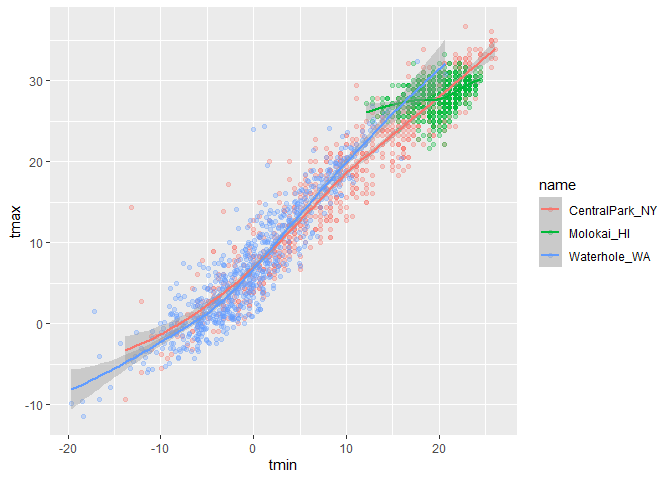
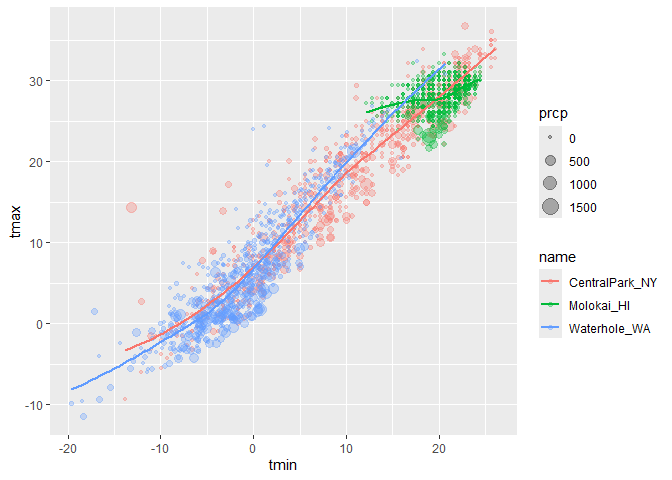
learning assessment

diff --git a/viz_1.md b/viz_1.md
@@ -99,8 +99,28 @@ weather_df |>
 ``` r
 weather_df |>
   ggplot(aes(x = tmin, y = tmax, color = name)) +
-  geom_point(alpha = 0.3) +
-  geom_smooth()
+  geom_point(aes(color = name, size = prcp), alpha = 0.3) +
+  geom_smooth(se = FALSE)
+```
+
+    ## `geom_smooth()` using method = 'loess' and formula = 'y ~ x'
+
+    ## Warning: Removed 17 rows containing non-finite outside the scale range
+    ## (`stat_smooth()`).
+
+    ## Warning: Removed 19 rows containing missing values or values outside the scale range
+    ## (`geom_point()`).
+
+![](viz_1_files/figure-gfm/unnamed-chunk-7-1.png)<!-- -->
+
+Use faceting real quick
+
+``` r
+weather_df |>
+  ggplot(aes(x = tmin, y = tmax, color = name)) +
+  geom_point(aes(color = name), alpha = 0.3, size = 0.8) +
+  geom_smooth(se = FALSE) +
+  facet_grid(. ~ name)
 ```
 
     ## `geom_smooth()` using method = 'loess' and formula = 'y ~ x'
@@ -111,4 +131,59 @@ weather_df |>
     ## Warning: Removed 17 rows containing missing values or values outside the scale range
     ## (`geom_point()`).
 
-![](viz_1_files/figure-gfm/unnamed-chunk-7-1.png)<!-- -->
+![](viz_1_files/figure-gfm/unnamed-chunk-8-1.png)<!-- -->
+
+``` r
+weather_df |>
+  ggplot(aes(x = tmin, y = tmax, color = name)) +
+  geom_point(aes(color = name), alpha = 0.3, size = 0.8) +
+  geom_smooth(se = FALSE) +
+  facet_grid(name ~ .)
+```
+
+    ## `geom_smooth()` using method = 'loess' and formula = 'y ~ x'
+
+    ## Warning: Removed 17 rows containing non-finite outside the scale range
+    ## (`stat_smooth()`).
+    ## Removed 17 rows containing missing values or values outside the scale range
+    ## (`geom_point()`).
+
+![](viz_1_files/figure-gfm/unnamed-chunk-8-2.png)<!-- -->
+
+Let’s make a somewhat more interesting scatterplot
+
+``` r
+weather_df |>
+  ggplot(aes(x = tmin, y = tmax, color = name, shape = name)) +
+  geom_point(aes(size = prcp), alpha = 0.3) +
+  geom_smooth(se = FALSE) +
+  facet_grid(. ~ name)
+```
+
+    ## `geom_smooth()` using method = 'loess' and formula = 'y ~ x'
+
+    ## Warning: Removed 17 rows containing non-finite outside the scale range
+    ## (`stat_smooth()`).
+
+    ## Warning: Removed 19 rows containing missing values or values outside the scale range
+    ## (`geom_point()`).
+
+![](viz_1_files/figure-gfm/unnamed-chunk-9-1.png)<!-- -->
+
+Learning Assessment
+
+``` r
+weather_df |>
+  filter(name == "CentralPark_NY") |> 
+  mutate(
+    tmax_fahr = tmax * (9 / 5) + 32,
+    tmin_fahr = tmin * (9 / 5) + 32) |> 
+  ggplot(aes(x =tmin_fahr, y = tmax_fahr)) +
+  geom_point() +
+  geom_smooth(method = "lm", se = FALSE) +
+  facet_grid(. ~ name)
+```
+
+    ## `geom_smooth()` using formula = 'y ~ x'
+
+![](viz_1_files/figure-gfm/unnamed-chunk-10-1.png)<!-- -->
